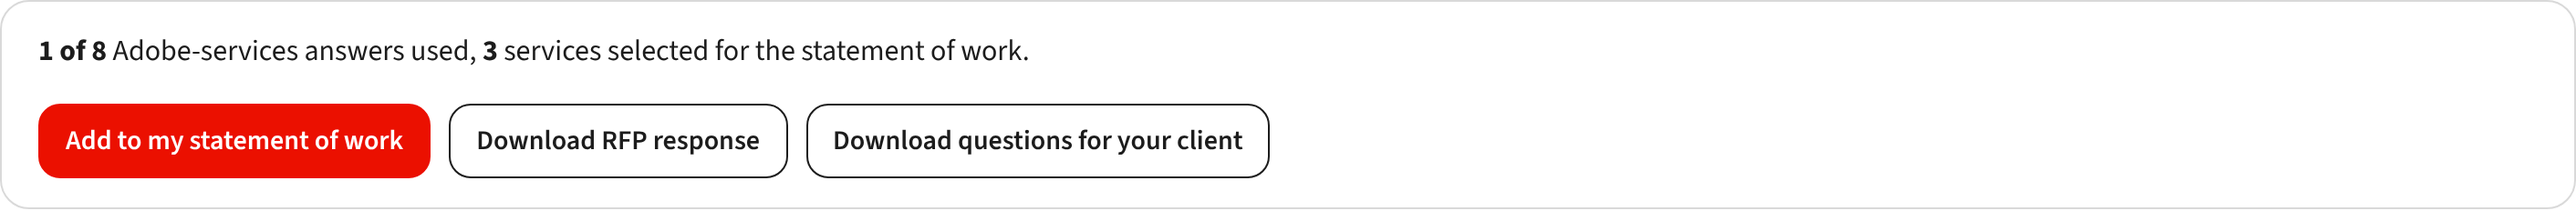
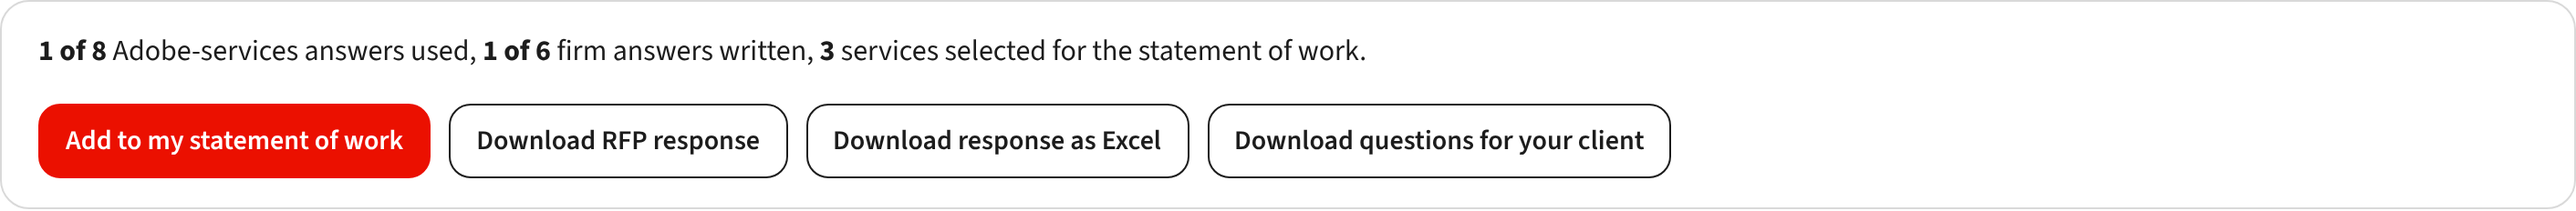
RFP Builder prototype: See answer on every row and the first answer open on load; a field under each client ask that joins the response as What you have in place; a text box for firm questions; Download response as Excel [skip netlify]
Claude-Session: https://claude.ai/code/session_01XdtaJbBr4NnCHXCCGFuhey

diff --git a/rfp_answers.js b/rfp_answers.js
@@ -121,14 +121,19 @@ function ownedProducts(){   // the products the RFP says the client already has 
     for(const [pid,names] of Object.entries(ALIASES)){if(!P[pid]||P[pid].outside)continue;
       for(const a of names){if(a.length<=4)continue;const i=t.indexOf(a);if(i>0&&OWNS.test(t.slice(Math.max(0,i-24),i)))s.add(pid);}}}
   rfpState.owned=s;return s;}
-function noteHTML(d){
+function noteHTML(d,q){
   if(!d||(!d.sells.length&&!d.asks.length))return '';
+  const f=(q&&q.facts)||{};
   return '<div class="rfp-partner-note"><h4>Notes for you, not for the client</h4>'+
     (d.sells.length?'<p>Part of this proposal:</p><ul class="rfp-sells">'+d.sells.map(x=>'<li>'+esc(x)+'</li>').join('')+'</ul>':'')+
-    (d.asks.length?'<p>Ask your client for these before you send this answer. The tool cannot answer them for your client:</p><ul class="rfp-asks">'+d.asks.map(x=>'<li>'+esc(x)+'</li>').join('')+'</ul>':'')+'</div>';
+    (d.asks.length?'<p>Ask your client for these. Type what they tell you and it goes into the response under "What you have in place"; anything left blank stays out of the response and on your checklist.</p><ul class="rfp-asks">'+
+      d.asks.map((x,i)=>'<li>'+esc(x)+'<textarea class="rfp-fact" data-i="'+i+'" rows="2" placeholder="Will confirm with the client" aria-label="What the client says about: '+esc(x)+'">'+esc(f[i]||'')+'</textarea></li>').join('')+'</ul>':'')+'</div>';
 }
-function plain(d){return d.sections.map(([h,items])=>h+'\n'+items.map(x=>'- '+x).join('\n')).join('\n\n')+(d.sources.length?'\n\nSources\n'+d.sources.map(s=>'- '+s.title+': '+s.url).join('\n'):'');}
-function answerHTML(d){return d.sections.map(([h,items])=>'<h4>'+esc(h)+'</h4>'+(items.length===1&&h==='Our approach'?'<p>'+esc(items[0])+'</p>':'<ul>'+items.map(x=>'<li>'+esc(x)+'</li>').join('')+'</ul>')).join('')+(d.sources.length?'<h4>Sources</h4><ul class="rfp-sources">'+d.sources.map(s=>'<li><a href="'+esc(s.url)+'" target="_blank" rel="noopener">'+esc(s.title)+'</a></li>').join('')+'</ul>':'');}
+// Nov 9 (Adam): what the partner typed under an ask ("the client says ...") joins the response as "What you have in place"
+const facts=q=>q&&q.facts?Object.keys(q.facts).sort((a,b)=>a-b).map(i=>String(q.facts[i]||'').trim()).filter(Boolean):[];
+const sectionsOf=(d,q)=>{const f=facts(q);return f.length?[...d.sections,['What you have in place',f]]:d.sections;};
+function plain(d,q){return sectionsOf(d,q).map(([h,items])=>h+'\n'+items.map(x=>'- '+x).join('\n')).join('\n\n')+(d.sources.length?'\n\nSources\n'+d.sources.map(s=>'- '+s.title+': '+s.url).join('\n'):'');}
+function answerHTML(d,q){return sectionsOf(d,q).map(([h,items])=>'<h4>'+esc(h)+'</h4>'+(items.length===1&&h==='Our approach'?'<p>'+esc(items[0])+'</p>':'<ul>'+items.map(x=>'<li>'+esc(x)+'</li>').join('')+'</ul>')).join('')+(d.sources.length?'<h4>Sources</h4><ul class="rfp-sources">'+d.sources.map(s=>'<li><a href="'+esc(s.url)+'" target="_blank" rel="noopener">'+esc(s.title)+'</a></li>').join('')+'</ul>':'');}
 
 /* ---------- the answer panel */
 const rfpState=R.state;let editing=false;
@@ -138,14 +143,15 @@ function renderAnswer(){
   const box=$r('rfp-answer');if(!box)return;const q=current();
   if(!q){box.innerHTML='<p class="hint">Pick a question on the left to see its drafted answer.</p>';return;}
   const head='<h3>'+(q.label?'<b>'+esc(q.label)+'</b> ':'')+esc(q.text)+'</h3>';
-  if(q.kind==='firm'){box.innerHTML=head+'<p class="rfp-note">This one is about your firm, so the tool leaves it to you. It stays in the downloaded response with a blank space for your answer.</p>'+nav();return;}
+  if(q.kind==='firm'){box.innerHTML=head+(q.status==='used'?'<span class="rfp-state ok">Used</span>':'')+'<p class="rfp-note">This one is about your firm, so it is yours to write. Type it here and it goes into the downloaded response in place of the blank.</p>'+
+    '<textarea id="rfp-firm" rows="7" placeholder="Your answer" aria-label="Your answer">'+esc(q.answer||'')+'</textarea><div class="rfp-actions"><button type="button" class="primary" id="rfp-firm-use">Use this answer</button>'+nav()+'</div>';return;}
   if(!q.draft)q.draft=compose(q);
   if(!q.draft){box.innerHTML=head+'<p class="rfp-note">No match in the catalog for this question. Answer it yourself, or move it to Your firm. The questions this tool answers are about Adobe products, their connections and the services around them.</p>'+nav();return;}
   const state=q.status==='used'?'<span class="rfp-state ok">Used</span>':q.status==='skipped'?'<span class="rfp-state">Skipped</span>':'';
-  if(editing){box.innerHTML=head+state+'<textarea id="rfp-edit" rows="16" aria-label="Edit the answer">'+esc(q.answer||plain(q.draft))+'</textarea><div class="rfp-actions"><button type="button" class="primary" id="rfp-save-edit">Save and use</button><button type="button" id="rfp-cancel-edit">Cancel</button></div>';return;}
-  const body=q.answer&&q.answer!==plain(q.draft)?'<pre class="rfp-plain">'+esc(q.answer)+'</pre>':answerHTML(q.draft);
+  if(editing){box.innerHTML=head+state+'<textarea id="rfp-edit" rows="16" aria-label="Edit the answer">'+esc(q.answer||plain(q.draft,q))+'</textarea><div class="rfp-actions"><button type="button" class="primary" id="rfp-save-edit">Save and use</button><button type="button" id="rfp-cancel-edit">Cancel</button></div>';return;}
+  const body='<div id="rfp-body">'+(q.answer?'<pre class="rfp-plain">'+esc(q.answer)+'</pre>':answerHTML(q.draft,q))+'</div>';
   const products=q.draft.m.products.map(id=>'<span class="rfp-chip">'+esc(P[id].name)+'</span>').join('');
-  box.innerHTML=head+state+'<p class="rfp-drawn">Drawn from: '+products+(q.draft.m.conn?'<span class="rfp-chip conn">'+esc(P[q.draft.m.conn.a].name+' + '+P[q.draft.m.conn.b].name)+'</span>':'')+'</p><p class="rfp-voice">Your response to the client</p>'+body+noteHTML(q.draft)+
+  box.innerHTML=head+state+'<p class="rfp-drawn">Drawn from: '+products+(q.draft.m.conn?'<span class="rfp-chip conn">'+esc(P[q.draft.m.conn.a].name+' + '+P[q.draft.m.conn.b].name)+'</span>':'')+'</p><p class="rfp-voice">Your response to the client</p>'+body+noteHTML(q.draft,q)+
     '<div class="rfp-actions"><button type="button" class="primary" id="rfp-use">'+(q.status==='used'?'Used, keep it':'Use this answer')+'</button><button type="button" id="rfp-edit-btn">Edit</button><button type="button" id="rfp-skip">Skip</button>'+nav()+'</div>';
 }
 function nav(){return '<button type="button" id="rfp-next">Next question</button>';}
@@ -157,8 +163,9 @@ function summary(){
   const el=$r('rfp-summary');if(!el)return;const qs=rfpState.questions;if(!qs.length){el.hidden=true;return;}
   const adobe=qs.filter(q=>q.kind!=='firm'),used=adobe.filter(q=>q.status==='used'),lines=selectedLineIds();
   el.hidden=false;
-  el.innerHTML='<p><b>'+used.length+' of '+adobe.length+'</b> Adobe-services answer'+(adobe.length===1?'':'s')+' used, <b>'+lines.size+'</b> service'+(lines.size===1?'':'s')+' selected for the statement of work.</p>'+
-    '<div class="rfp-actions"><button type="button" class="primary" id="rfp-to-sow"'+(lines.size?'':' disabled')+'>Add to my statement of work</button><button type="button" id="rfp-download">Download RFP response</button><button type="button" id="rfp-download-asks">Download questions for your client</button></div>';
+  const firm=qs.filter(q=>q.kind==='firm'),written=firm.filter(q=>q.status==='used');
+  el.innerHTML='<p><b>'+used.length+' of '+adobe.length+'</b> Adobe-services answer'+(adobe.length===1?'':'s')+' used, <b>'+written.length+' of '+firm.length+'</b> firm answer'+(firm.length===1?'':'s')+' written, <b>'+lines.size+'</b> service'+(lines.size===1?'':'s')+' selected for the statement of work.</p>'+
+    '<div class="rfp-actions"><button type="button" class="primary" id="rfp-to-sow"'+(lines.size?'':' disabled')+'>Add to my statement of work</button><button type="button" id="rfp-download">Download RFP response</button><button type="button" id="rfp-download-xlsx">Download response as Excel</button><button type="button" id="rfp-download-asks">Download questions for your client</button></div>';
 }
 function selectedLineIds(){const s=new Set();for(const q of rfpState.questions)if(q.status==='used'&&q.draft)for(const id of q.draft.m.lines)s.add(id);return s;}
 function selectedProducts(){const s=new Set();for(const q of rfpState.questions)if(q.status==='used'&&q.draft){for(const id of q.draft.m.products)s.add(id);if(q.draft.m.conn){s.add(q.draft.m.conn.a);s.add(q.draft.m.conn.b);}}return s;}
@@ -184,11 +191,11 @@ function toSow(){
 function responseDoc(){
   const qs=rfpState.questions,name=rfpState.name||'RFP';
   const body=qs.map(q=>{const label=(q.label?q.label+' ':'')+q.text;
-    if(q.kind==='firm')return '<section><h3>'+esc(label)+'</h3><p class="tag">About your firm</p><p class="blank">Your answer:</p><div class="space"></div></section>';
+    if(q.kind==='firm')return '<section><h3>'+esc(label)+'</h3><p class="tag">About your firm</p>'+(q.answer?'<pre>'+esc(q.answer)+'</pre>':'<p class="blank">Your answer:</p><div class="space"></div>')+'</section>';
     const d=q.draft||compose(q);
     if(!d)return '<section><h3>'+esc(label)+'</h3><p class="tag">No catalog match</p><p class="blank">Your answer:</p><div class="space"></div></section>';
     const status=q.status==='used'?'Reviewed':q.status==='skipped'?'Skipped by the partner':'Draft, not yet reviewed';
-    const text=q.answer&&q.answer!==plain(d)?'<pre>'+esc(q.answer)+'</pre>':answerHTML(d);
+    const text=q.answer?'<pre>'+esc(q.answer)+'</pre>':answerHTML(d,q);
     return '<section><h3>'+esc(label)+'</h3><p class="tag">'+status+'</p>'+text+'</section>';}).join('');
   return '<!doctype html><html><head><meta charset="utf-8"><title>'+esc(name)+': response draft</title><style>body{font-family:"Source Sans 3",Arial,sans-serif;color:#1c1c1c;max-width:860px;margin:40px auto;padding:0 20px;line-height:1.5}h1{font-size:26px}h3{font-size:17px;margin:28px 0 4px}h4{font-size:13px;letter-spacing:1.2px;text-transform:uppercase;margin:14px 0 4px}p,li{font-size:15px}.tag{font-size:12px;font-weight:700;letter-spacing:1px;text-transform:uppercase;margin:0 0 6px}.blank{font-weight:600}.space{height:90px;border:1px dashed #999;border-radius:8px}pre{white-space:pre-wrap;font:inherit}section{page-break-inside:avoid}.intro{border:1.5px solid #1c1c1c;border-radius:10px;padding:12px 16px}</style></head><body>'+
     '<h1>'+esc(name)+': response draft</h1><p class="intro">Drafted by the partner from Adobe\'s documentation, question by question. Answers marked Reviewed were checked by the partner; drafts not yet reviewed and questions about the partner\'s firm still need the partner\'s words. Sources are Adobe Experience League and adobe.com pages.</p>'+body+'</body></html>';
@@ -199,9 +206,31 @@ function asksDoc(){
   const qs=rfpState.questions,name=rfpState.name||'RFP';
   const body=qs.map(q=>{if(q.kind==='firm')return '';const d=q.draft||compose(q);if(!d||(!d.sells.length&&!d.asks.length))return '';
     return '<section><h3>'+esc((q.label?q.label+' ':'')+q.text)+'</h3>'+(d.sells.length?'<h4>Part of this proposal</h4><ul>'+d.sells.map(x=>'<li>'+esc(x)+'</li>').join('')+'</ul>':'')+
-      (d.asks.length?'<h4>Ask your client for</h4><ul>'+d.asks.map(x=>'<li>'+esc(x)+'</li>').join('')+'</ul>':'')+'</section>';}).join('');
+      (d.asks.length?'<h4>Ask your client for</h4><ul>'+d.asks.map((x,i)=>'<li>'+esc(x)+'<br><b>'+(q.facts&&String(q.facts[i]||'').trim()?'Client says: </b>'+esc(q.facts[i].trim()):'Will confirm with the client</b>')+'</li>').join('')+'</ul>':'')+'</section>';}).join('');
   return '<!doctype html><html><head><meta charset="utf-8"><title>'+esc(name)+': questions for your client</title><style>body{font-family:"Source Sans 3",Arial,sans-serif;color:#1c1c1c;max-width:860px;margin:40px auto;padding:0 20px;line-height:1.5}h1{font-size:26px}h3{font-size:17px;margin:28px 0 4px}h4{font-size:13px;letter-spacing:1.2px;text-transform:uppercase;margin:14px 0 4px}p,li{font-size:15px}section{page-break-inside:avoid}.intro{border:1.5px solid #1c1c1c;border-radius:10px;padding:12px 16px}</style></head><body>'+
     '<h1>'+esc(name)+': questions for your client</h1><p class="intro">For your firm, not for the client. For each question the tool drafted an answer to, this lists what the proposal itself supplies and what to confirm with your client before you send the response. Nothing here is in the downloaded response.</p>'+(body||'<p>No drafted answer needs anything from your client.</p>')+'</body></html>';
+}
+
+/* ---------- the response as a workbook (RFPs arrive as spreadsheets, so the answer can go back as one) */
+function loadXLSX(){return new Promise((ok,fail)=>{if(window.XLSX)return ok(window.XLSX);const sc=document.createElement('script');sc.src='lib/xlsx.mini.min.js';sc.onload=()=>ok(window.XLSX);sc.onerror=()=>fail(Error('The spreadsheet library did not load.'));document.head.appendChild(sc);});}
+function responseRows(){
+  const rows=[['Number','Question','Response','Status']],srcs=[['Number','Source','Link']];
+  for(const q of rfpState.questions){const d=q.kind==='firm'?null:(q.draft||compose(q));
+    let text='',status='';
+    if(q.kind==='firm'){text=q.answer||'';status=q.answer?'Written by the partner':'About your firm: still to write';}
+    else if(!d){text=q.answer||'';status=q.answer?'Written by the partner':'No catalog match: still to write';}
+    else{text=q.answer||plain(d,q).replace(/\n\nSources\n[\s\S]*$/,'');status=q.status==='used'?'Reviewed':q.status==='skipped'?'Skipped by the partner':'Draft, not yet reviewed';
+      for(const s of d.sources)srcs.push([q.label||'',s.title,s.url]);}
+    rows.push([q.label||'',q.text,text,status]);}
+  return {rows,srcs};
+}
+async function responseXlsx(){
+  let X;try{X=await loadXLSX();}catch(e){toast(e.message);return;}
+  const {rows,srcs}=responseRows(),wb=X.utils.book_new();
+  const ws=X.utils.aoa_to_sheet(rows);ws['!cols']=[{wch:8},{wch:60},{wch:100},{wch:28}];X.utils.book_append_sheet(wb,ws,'Response');
+  const ws2=X.utils.aoa_to_sheet(srcs);ws2['!cols']=[{wch:8},{wch:60},{wch:90}];X.utils.book_append_sheet(wb,ws2,'Sources');
+  const out=X.write(wb,{bookType:'xlsx',type:'array'});
+  download((rfpState.name||'RFP').replace(/\.[a-z0-9]+$/i,'').replace(/[^a-zA-Z0-9-]/g,'-').slice(0,80)+'-response.xlsx',out,'application/vnd.openxmlformats-officedocument.spreadsheetml.sheet');
 }
 
 /* ---------- wiring */
@@ -209,7 +238,9 @@ document.addEventListener('click',e=>{
   const li=e.target.closest('#rfp-questions li');
   if(li&&!e.target.closest('select')){select(Number(li.dataset.i));return;}
   const id=e.target.id,q=current();
-  if(id==='rfp-use'&&q&&q.draft){q.status='used';if(!q.answer)q.answer=plain(q.draft);R.renderList();renderAnswer();summary();return;}
+  if(id==='rfp-use'&&q&&q.draft){q.status='used';R.renderList();renderAnswer();summary();return;}
+  if(id==='rfp-firm-use'&&q){const t=$r('rfp-firm').value.trim();q.answer=t;q.status=t?'used':undefined;R.renderList();renderAnswer();summary();return;}
+  if(id==='rfp-download-xlsx'){responseXlsx();return;}
   if(id==='rfp-skip'&&q){q.status='skipped';R.renderList();renderAnswer();summary();return;}
   if(id==='rfp-edit-btn'&&q){editing=true;renderAnswer();return;}
   if(id==='rfp-cancel-edit'){editing=false;renderAnswer();return;}
@@ -219,7 +250,9 @@ document.addEventListener('click',e=>{
   if(id==='rfp-download-asks'){download(((rfpState.name||'RFP').replace(/\.[a-z0-9]+$/i,'').replace(/[^a-zA-Z0-9-]/g,'-').slice(0,80)+'-questions-for-your-client.html'),asksDoc(),'text/html');return;}
   if(id==='rfp-download'){download(((rfpState.name||'RFP').replace(/\.[a-z0-9]+$/i,'').replace(/[^a-zA-Z0-9-]/g,'-').slice(0,80)+'-response.html'),responseDoc(),'text/html');return;}
 });
+document.addEventListener('input',e=>{const t=e.target.closest('.rfp-fact');if(!t)return;const q=current();if(!q||!q.draft)return;
+  (q.facts=q.facts||{})[t.dataset.i]=t.value;const b=$r('rfp-body');if(b&&!q.answer)b.innerHTML=answerHTML(q.draft,q);});
 R.onRender=()=>{summary();if(current()&&current().kind!=='firm'&&!current().draft)current().draft=compose(current());};
-R.onLoad=()=>{rfpState.selected=null;rfpState.owned=null;editing=false;renderAnswer();summary();};
-window.RFPAnswers={match,compose,rfp,plain,toSow,responseDoc,asksDoc,ownedProducts,context,detect};
+R.onLoad=()=>{rfpState.selected=null;rfpState.owned=null;editing=false;if(rfpState.questions.some(q=>q.kind!=='firm'))next();else{renderAnswer();summary();}};
+window.RFPAnswers={match,compose,rfp,plain,toSow,responseDoc,asksDoc,responseRows,ownedProducts,context,detect};
 })();

diff --git a/test_rfp.js b/test_rfp.js
@@ -73,6 +73,10 @@ const server = http.createServer((req, res) => {
   await p.setInputFiles('#rfp-file', path.join(FIX, 'bank_rfp.xlsx'));
   await p.waitForFunction(() => /found/.test(document.getElementById('rfp-status').textContent), null, {timeout: 30000});
   const rowFor = async label => p.$$eval('#rfp-questions li', (e, l) => e.findIndex(x => (x.querySelector('.rfp-q b') || {}).textContent === l), label);
+  // Nov 9 (Adam: not obvious to click a row): every row says See answer, the open row says Open, and the first Adobe-services answer opens by itself
+  const opens = await p.$$eval('#rfp-questions li', e => e.map(x => (x.querySelector('.rfp-open') || {}).textContent || ''));
+  ok(opens.length === 14 && opens.filter(t => /See answer/.test(t)).length === 7 && opens.filter(t => /Write answer/.test(t)).length === 6 && opens.filter(t => t === 'Open').length === 1, 'every Adobe row says See answer, every firm row Write answer, and the open row says Open', JSON.stringify(opens));
+  ok((await p.$eval('#rfp-questions li.sel .rfp-q b', e => e.textContent)) === '2.1' && /Your response to the client/.test(await p.textContent('#rfp-answer')), 'the first Adobe-services question (2.1) opens by itself when the RFP loads, so the panel is never empty');
   await p.click(`#rfp-questions li:nth-child(${await rowFor('2.2') + 1})`); await p.waitForTimeout(200);
   const ans = await p.textContent('#rfp-answer');
   ok(/Your response to the client/.test(ans) && /Our approach/.test(ans) && /What we would do/.test(ans) && /Sources/.test(ans) && !/need from you/.test(ans), '2.2: the response has approach, work and sources, labelled as the response to the client, with no asks in it', ans.slice(0, 200));
@@ -82,6 +86,12 @@ const server = http.createServer((req, res) => {
   ok(note && note.sells.length === 1 && /paid Brand Visibility offering, not the free trial/.test(note.sells[0]), '2.2: the paid Brand Visibility license is Part of this proposal (the bank owns CJA, not Brand Visibility)', note && JSON.stringify(note.sells));
   ok(note && note.asks.length >= 4 && note.asks.some(a => /CDN access logs/.test(a)) && note.asks.some(a => /CJA administrator/.test(a)) && !note.asks.some(a => /paid Brand Visibility/i.test(a)), '2.2: the access, people and fields are what to ask the client for', note && JSON.stringify(note.asks).slice(0, 300));
   ok(await p.evaluate(() => [...RFPAnswers.ownedProducts()].join(',')) === 'cja', 'the RFP says "our Customer Journey Analytics", so CJA is the product the bank owns', await p.evaluate(() => [...RFPAnswers.ownedProducts()].join(',')));
+  // Nov 9 (Adam: let them type the information right there): a field under each ask; what is typed joins the response
+  ok((await p.$$eval('#rfp-answer .rfp-asks .rfp-fact', e => e.length)) === note.asks.length && (await p.$eval('#rfp-answer .rfp-fact', e => e.placeholder)) === 'Will confirm with the client', 'each ask has its own field, pre-filled with Will confirm with the client');
+  await p.fill('#rfp-answer .rfp-fact[data-i="0"]', 'Akamai serves both sites; your IT team confirmed log forwarding can be enabled.'); await p.waitForTimeout(100);
+  const withFact = await p.textContent('#rfp-body');
+  ok(/What you have in place/.test(withFact) && /Akamai serves both sites/.test(withFact) && (await p.$$eval('#rfp-answer .rfp-fact', e => e.length)) === note.asks.length && (await p.$eval('#rfp-answer .rfp-fact[data-i="0"]', e => e.value)).startsWith('Akamai'), 'the typed fact appears in the response under What you have in place while the field keeps focus and its text', withFact.slice(-200));
+  ok(!/Will confirm with the client/.test(withFact), 'the asks left blank stay out of the response');
   const resp = await p.$eval('#rfp-answer', e => { const c = e.cloneNode(true); const n = c.querySelector('.rfp-partner-note'); if (n) n.remove(); return c.textContent; });
   ok(/Brand Visibility/.test(resp) && /Customer Journey Analytics|CJA/.test(resp) && !/your client|the Client/.test(resp), '2.2: the response names both products and speaks to the client as you (the partner note may say your client)', resp.slice(0, 300));
   ok(await p.$$eval('#rfp-answer .rfp-sources a', e => e.length > 0 && e.every(a => /^https:\/\/(experienceleague|helpx|business|www)\.adobe\.com|aem\.live/.test(a.href))), '2.2: every source is an Adobe page');
@@ -92,19 +102,31 @@ const server = http.createServer((req, res) => {
   const ongoing = await p.textContent('#rfp-answer');
   ok(/Each month we will/.test(ongoing), '2.5 (ongoing services, no product named) draws the monthly lines from the products the RFP is about', ongoing.slice(0, 300));
   await p.click(`#rfp-questions li:nth-child(${await rowFor('1.2') + 1})`); await p.waitForTimeout(150);
-  ok(/about your firm/.test(await p.textContent('#rfp-answer')), 'a Your firm question is left to the partner');
+  ok(/about your firm/.test(await p.textContent('#rfp-answer')) && await p.isVisible('#rfp-firm'), 'a Your firm question shows its own text box');
+  await p.fill('#rfp-firm', 'Harbor & Pine Credit Union (2024), Meridian Trust (2025), Lakeshore Mutual (2025). Contacts on request.'); await p.click('#rfp-firm-use'); await p.waitForTimeout(150);
+  ok((await p.$eval(`#rfp-questions li:nth-child(${await rowFor('1.2') + 1})`, e => /Used/.test(e.textContent))) && /1 of 6/.test(await p.textContent('#rfp-summary')), 'a firm answer typed and used marks the row Used and counts 1 of 6 firm answers written', await p.textContent('#rfp-summary'));
   await p.click(`#rfp-questions li:nth-child(${await rowFor('2.3') + 1})`); await p.waitForTimeout(150);
   await p.click('#rfp-edit-btn'); await p.fill('#rfp-edit', 'Our own words for 2.3.'); await p.click('#rfp-save-edit'); await p.waitForTimeout(150);
   ok(/Our own words for 2.3/.test(await p.textContent('#rfp-answer')) && /2 of 8/.test(await p.textContent('#rfp-summary')), 'an edited answer is kept and counted');
   const [dl] = await Promise.all([p.waitForEvent('download'), p.click('#rfp-download')]);
   const doc = fs.readFileSync(await dl.path(), 'utf8');
-  ok(/response draft/.test(doc) && /2\.2 How would you connect/.test(doc) && /What we would do/.test(doc) && /Our own words for 2\.3/.test(doc) && /Provide three references/.test(doc) && /Your answer:/.test(doc), 'the downloaded response holds every question in order, the used answers and blanks for the firm', doc.length + ' bytes');
+  ok(/response draft/.test(doc) && /2\.2 How would you connect/.test(doc) && /What we would do/.test(doc) && /Our own words for 2\.3/.test(doc) && /Provide three references/.test(doc) && /Your answer:/.test(doc), 'the downloaded response holds every question in order, the used answers and blanks for the firm questions not yet written', doc.length + ' bytes');
+  ok(/What you have in place/.test(doc) && /Akamai serves both sites/.test(doc) && /Harbor &amp; Pine Credit Union \(2024\)/.test(doc), 'the downloaded response carries the typed fact under 2.2 and the typed firm answer under 1.2');
   ok(!/your client|the Client\b/.test(doc.replace(/Client ID|Client Secret/g, '')), 'the response speaks to the client as you, never as the Client');
   ok(!/need from you|Notes for you|Ask your client|Part of this proposal/.test(doc), 'the downloaded response carries none of the partner notes');
   const [dl2] = await Promise.all([p.waitForEvent('download'), p.click('#rfp-download-asks')]);
   const asks = fs.readFileSync(await dl2.path(), 'utf8');
   ok(/questions for your client/.test(asks) && /2\.2 How would you connect/.test(asks) && /Part of this proposal/.test(asks) && /paid Brand Visibility offering, not the free trial/.test(asks) && /Ask your client for/.test(asks) && /CDN access logs/.test(asks) && !/Provide three references/.test(asks), 'the questions-for-your-client download lists, per drafted question, what the proposal supplies and what to ask for, and skips the firm questions', asks.length + ' bytes');
   ok(/questions-for-your-client\.html$/.test(dl2.suggestedFilename()), 'the checklist file is named after the RFP', dl2.suggestedFilename());
+  ok(/Client says: <\/b>Akamai serves both sites/.test(asks) && /Will confirm with the client/.test(asks), 'the checklist shows what the client said and what is still to confirm');
+  // Nov 9 (Adam: can we get a new Excel?): the response as a workbook, read back with the same library
+  const [dl3] = await Promise.all([p.waitForEvent('download'), p.click('#rfp-download-xlsx')]);
+  const xbytes = [...fs.readFileSync(await dl3.path())];
+  const sheets = await p.evaluate(async bytes => { const X = window.XLSX; const wb = X.read(new Uint8Array(bytes), {type: 'array'}); return {names: wb.SheetNames, rows: X.utils.sheet_to_json(wb.Sheets.Response, {header: 1}), srcs: X.utils.sheet_to_json(wb.Sheets.Sources, {header: 1})}; }, xbytes);
+  const r22 = sheets.rows.find(r => r[0] === '2.2'), r12 = sheets.rows.find(r => r[0] === '1.2'), r23 = sheets.rows.find(r => r[0] === '2.3');
+  ok(/response\.xlsx$/.test(dl3.suggestedFilename()) && sheets.names.join(',') === 'Response,Sources' && sheets.rows.length === 15 && sheets.rows[0].join('|') === 'Number|Question|Response|Status', 'the Excel response has a Response sheet with one row per question and a Sources sheet', JSON.stringify(sheets.names) + ' ' + sheets.rows.length);
+  ok(r22 && /Our approach/.test(r22[2]) && /What you have in place/.test(r22[2]) && !/Sources/.test(r22[2]) && r22[3] === 'Reviewed' && r12 && /Harbor & Pine/.test(r12[2]) && r23 && r23[2] === 'Our own words for 2.3.', 'the rows carry the used answer with the typed fact, the typed firm answer and the edited answer, with sources on their own sheet', JSON.stringify([r22 && r22[3], r12 && r12[2], r23 && r23[2]]));
+  ok(sheets.srcs.length > 5 && sheets.srcs.slice(1).every(r => /^https:\/\//.test(r[2])) && sheets.srcs.some(r => r[0] === '2.2'), 'the Sources sheet lists each answer\'s Adobe pages by question number', sheets.srcs.length + ' rows');
   await p.click('#rfp-to-sow'); await p.waitForTimeout(600);
   ok(await p.isVisible('#services-panel') && (await p.textContent('#play-title')) === 'Your own play', 'Add to my statement of work opens the Services step on Your own play', await p.textContent('#play-title'));
   const cards = await p.$$eval('.service-card', e => e.length);

diff --git a/patch_step49.py b/patch_step49.py
@@ -60,7 +60,7 @@ CSS = '''
 .rfp-filters button[aria-pressed=true]{background:var(--red);color:#fff;border-color:var(--red)}
 .rfp-filters #rfp-clear{margin-left:auto}
 .rfp-list{list-style:none;margin:0;padding:0}
-.rfp-list li{display:grid;grid-template-columns:auto 1fr auto;gap:12px;align-items:start;border:1px solid var(--line);border-radius:12px;padding:12px 14px;margin:0 0 8px;font-size:15px;line-height:1.45;background:#fff}
+.rfp-list li{display:grid;grid-template-columns:auto 1fr auto auto;gap:12px;align-items:start;border:1px solid var(--line);border-radius:12px;padding:12px 14px;margin:0 0 8px;font-size:15px;line-height:1.45;background:#fff}
 .rfp-list li[hidden]{display:none}
 .rfp-tag{font-size:11px;font-weight:700;letter-spacing:1px;text-transform:uppercase;border:1.5px solid var(--red);color:var(--red);border-radius:999px;padding:2px 8px;white-space:nowrap;margin-top:2px}
 .rfp-list li[data-kind=firm] .rfp-tag{border-color:var(--ink);color:var(--ink)}
@@ -83,6 +83,10 @@ CSS = '''
 .rfp-note{font-size:15px;line-height:1.5}
 .rfp-voice{font-size:12.5px;font-weight:700;letter-spacing:1.4px;text-transform:uppercase;color:var(--red);margin:12px 0 2px}
 .rfp-partner-note{border:1.5px solid var(--ink);border-radius:14px;padding:14px 18px;margin-top:18px}.rfp-partner-note h4{margin-top:0}.rfp-partner-note p{margin:0 0 4px}.rfp-partner-note ul{margin-bottom:8px}
+.rfp-open{color:var(--red);font-weight:600;font-size:13.5px;white-space:nowrap;align-self:center}
+.rfp-fact,#rfp-firm{display:block;width:100%;box-sizing:border-box;font:inherit;font-size:14.5px;line-height:1.4;color:var(--ink);border:1.5px solid var(--ink);border-radius:10px;padding:7px 10px;margin:6px 0 10px;background:#fff;resize:vertical}
+#rfp-firm{font-size:15px;border-radius:12px;padding:10px 12px;margin:10px 0 0}
+.rfp-fact::placeholder,#rfp-firm::placeholder{color:#444;opacity:1}
 .rfp-actions{display:flex;gap:10px;flex-wrap:wrap;margin-top:16px}
 .rfp-plain,#rfp-edit{white-space:pre-wrap;font:inherit;font-size:15px;line-height:1.5;width:100%;box-sizing:border-box;border:1.5px solid var(--line);border-radius:12px;padding:12px;margin:0}
 .rfp-summary{border:1.5px solid var(--line);border-radius:16px;padding:16px 20px;margin-top:18px}.rfp-summary p{margin:0 0 6px;font-size:16px}
@@ -208,7 +212,7 @@ function renderList(){
   for(const [i,q] of rfp.questions.entries()){
     const li=document.createElement('li');li.dataset.kind=q.kind;li.dataset.i=i;li.hidden=rfp.filter!=='all'&&q.kind!==rfp.filter;
     if(rfp.selected===i)li.classList.add('sel');
-    li.innerHTML='<span class="rfp-tag">'+KIND[q.kind]+'</span><span class="rfp-q">'+(q.label?'<b>'+esc(q.label)+'</b>':'')+esc(q.text)+(q.status?'<br><span class="rfp-state'+(q.status==='used'?' ok':'')+'">'+(q.status==='used'?'Used':'Skipped')+'</span>':'')+'</span><select class="rfp-kind" aria-label="Which pile this question belongs to">'+Object.entries(KIND).map(([k,v])=>'<option value="'+k+'"'+(k===q.kind?' selected':'')+'>'+v+'</option>').join('')+'</select>';
+    li.innerHTML='<span class="rfp-tag">'+KIND[q.kind]+'</span><span class="rfp-q">'+(q.label?'<b>'+esc(q.label)+'</b>':'')+esc(q.text)+(q.status?'<br><span class="rfp-state'+(q.status==='used'?' ok':'')+'">'+(q.status==='used'?'Used':'Skipped')+'</span>':'')+'</span><select class="rfp-kind" aria-label="Which pile this question belongs to">'+Object.entries(KIND).map(([k,v])=>'<option value="'+k+'"'+(k===q.kind?' selected':'')+'>'+v+'</option>').join('')+'</select><span class="rfp-open">'+(rfp.selected===i?'Open':(q.kind==='firm'?'Write answer':'See answer')+' &rsaquo;')+'</span>';
     list.appendChild(li);
   }
   const n=rfp.questions.length,a=rfp.questions.filter(q=>q.kind==='adobe').length,f=rfp.questions.filter(q=>q.kind==='firm').length,u=n-a-f;

diff --git a/README.md b/README.md
@@ -71,7 +71,7 @@ Nov 8 2026 (Adam: finish the scrub ChatGPT started): twelve more rules for the f
 | `patch_step45.py`, `canvas/patch_step45.py`, `test_step45.js` | Step 45 (Nov 4, Adam: "go" on `mockups/nov4_outside_v2/` and `mockups/nov4_cdn_recommended/`): the CDN starts on the canvas in every Brand Visibility play with CDN log forwarding (OX1) on, here too (a new engagement starts those plays with the CDN; a saved one keeps its own), so each Brand Visibility play starts $2,400 higher at $150, Typical. These steps keep the new outside systems and AEM Assets on the AEM play through the hand-over (`OUTSIDE_MORE`); their services are research lines, so they arrive as service concepts and the catalog is unchanged. On Create your own play an outside system's catalog service counts only with the Adobe product it connects to (`OUT_WITH`: CJA for OX3 to OX5, Brand Visibility for OX1 and OX2), as the canvas counts it. `node sow/test_step45.js` (32 checks) drives both pages: the totals agree on every Brand Visibility play and on Create your own play with a warehouse or CRM beside Real-Time CDP, Journey Optimizer, Marketo or Target. Run on the step 44 file: `python3 patch_step45.py index.html`, then `canvas/build.py` and `build_site.py`. The test updates are `tests_step45.py` and `tests_step45_review.py` (and `check.py`: each Brand Visibility play starts 16 hours higher, with OX1). |
 | `sweep46_extract.py`, `sweep46_decisions.json`, `sweep46_apply.py`, `patch_step46.py`, `canvas/patch_step46.py`, `test_step46.js` | Step 46 (Nov 4, Adam: "always say your client", then "yes"): the client sweep. The statement of work calls the party the Client, the tool says "your client" to the partner, a client's own customers and Adobe's product names stay; every wording, its decision and why is in `review_step46_2026-11-04/CHANGES.md`. Saved engagements in the earlier wording take the new wording (PRIOR46, plus the FSI objective and the default responsibilities); edited text stays the partner's. A canvas research service reads "the Client" once it reaches these steps (`docVoice`), and the package it needs arrives as "Assumes the Client has ..." (no upsell note in the SOW). Code names (`state.customer`, `approvalCustomer`, `data-meta="customer"`) don't change, so saved work and drafts open as before. Run on the step 45 files: `python3 sweep46_apply.py`, `python3 patch_step46.py index.html`, `python3 canvas/patch_step46.py canvas/template.html`, then `canvas/build.py` and `build_site.py`; `node sow/test_step46.js` (17 checks). |
 | `patch_step47_sow.py`, `patch_step47_content.py`, `patch_step47_look.py`, `canvas/patch_step47*.py`, `canvas/data_step47*.py`, `test_step47.js` | Step 47 (Nov 5, Adam: "find everything that needs to be fixed and fix it all at once", then "yes, fix all 45"): the full audit's 45 findings (`audit_2026-11-05/FINDINGS.md`), fixed in three passes (these steps, the canvas, the wording and facts) and checked one by one by independent checkers. Among them: a saved engagement with a step 45 system on the canvas was wiped on the next load (it now loads after the values it needs, and a save that can't be opened is backed up, never overwritten); removing a system in focus view crashed the canvas; the canvas is usable on phones and tablets; licensing text says customers, the partner's work says your client or the Client; partner-internal notes no longer print in the SOW; cards never run off the screen or cover their own box or bolt. Changed service wording keeps its earlier text in PRIOR47. And the look Adam approved (`mockups/nov5_look/`): rounder corners on both pages. `node sow/test_step47.js` (100 checks). |
-| `rfp_prototype/`, `patch_step49.py`, `lib/`, `test_rfp.js`, `qa/rfp_fixtures/` | Step 49, part one (Nov 8, Adam: "a fifth tab called RFP Builder", "ok 3"; then: a half-built feature does not go in the product, it gets its own link): the RFP Builder prototype, built by `python3 sow/rfp_prototype/build.py` into `rfp_prototype/site/` as a copy of the SOW tool with the tab added by `patch_step49.py`, a "prototype, not the live tool" badge in the masthead and the readers in `lib/`. Nothing in the product (`index.html`, the canvas, `site/`) refers to it. The partner drops a client's RFP or RFI (PDF, Word, Excel, CSV or text; Nov 9, Adam: RFPs often arrive as spreadsheets, so SheetJS reads every sheet, a numbering cell joined to the question cell beside it); the page reads it in the browser with pdf.js, mammoth and SheetJS (loaded only when the tab opens, served from the same folder, so Proto needs no CDN), finds the questions (numbered items, question marks, request verbs such as describe, provide, explain; instructions like "respond to each item" and section headings are skipped) and sorts them into Adobe services, Your firm (references, team, pricing, legal) and Not sure, each movable from its row. Nothing about the RFP is sent anywhere or saved to browser storage. `node sow/test_rfp.js` (25 checks) uploads three made-up RFPs (`qa/rfp_fixtures/`, test data only, rebuilt by `make_fixtures.py`) and checks the piles, that no request leaves the page and that storage stays clean. Part two (Nov 9, Adam: "ok, lets go"): drafted answers, in `rfp_answers.js` (inlined by the patch, with a slim copy of the canvas catalog as `RFP_CAT`). A question's products are found from an alias list ("Experience Manager", "ChatGPT", "storefront", "leads"...); a connection answers only when the question names both of its products; the answer stitches the connection's how and gain, the matched services' scopes as "We will ...", the prerequisites as "What we would need from you", monthly lines as "After launch", and the Adobe sources, all converted to the partner's voice to the client ("your client" and "the Client" become "you", "the partner" becomes "we"). A question that names no product gets an answer only if it asks about ongoing work, drawn from the monthly lines of the products the rest of the RFP is about; hosting, security and licensing questions wait for the knowledge base. Use, Edit, Skip and Next on each answer; "Add to my statement of work" writes the same hand-off the canvas writes (Your own play, the products on the Build canvas, the used answers' services on) and opens Services; "Download RFP response" gives every question in the RFP's order with the used answers, drafts marked as not yet reviewed, and a blank space under the questions about the firm. Part three, the knowledge base, is next. All of it stays in the prototype until Adam says it is ready for the tool. To try it: upload `rfp_prototype/site/` to Proto as its own prototype (for example "sow-rfp-builder"); `rfp_prototype/try/` holds a made-up bank RFP as a spreadsheet to drop in. Nov 9, later (Adam: the response, then notes on what to ask the client for): the prerequisites leave the answer and become a boxed note for the partner, split into Part of this proposal (a license line about a product the RFP does not say the client owns, found by `LICENSE` and `ownedProducts()`) and Ask your client for; the response is labelled as the partner's words to the client, and Download questions for your client gives the partner that checklist on its own. |
+| `rfp_prototype/`, `patch_step49.py`, `lib/`, `test_rfp.js`, `qa/rfp_fixtures/` | Step 49, part one (Nov 8, Adam: "a fifth tab called RFP Builder", "ok 3"; then: a half-built feature does not go in the product, it gets its own link): the RFP Builder prototype, built by `python3 sow/rfp_prototype/build.py` into `rfp_prototype/site/` as a copy of the SOW tool with the tab added by `patch_step49.py`, a "prototype, not the live tool" badge in the masthead and the readers in `lib/`. Nothing in the product (`index.html`, the canvas, `site/`) refers to it. The partner drops a client's RFP or RFI (PDF, Word, Excel, CSV or text; Nov 9, Adam: RFPs often arrive as spreadsheets, so SheetJS reads every sheet, a numbering cell joined to the question cell beside it); the page reads it in the browser with pdf.js, mammoth and SheetJS (loaded only when the tab opens, served from the same folder, so Proto needs no CDN), finds the questions (numbered items, question marks, request verbs such as describe, provide, explain; instructions like "respond to each item" and section headings are skipped) and sorts them into Adobe services, Your firm (references, team, pricing, legal) and Not sure, each movable from its row. Nothing about the RFP is sent anywhere or saved to browser storage. `node sow/test_rfp.js` (25 checks) uploads three made-up RFPs (`qa/rfp_fixtures/`, test data only, rebuilt by `make_fixtures.py`) and checks the piles, that no request leaves the page and that storage stays clean. Part two (Nov 9, Adam: "ok, lets go"): drafted answers, in `rfp_answers.js` (inlined by the patch, with a slim copy of the canvas catalog as `RFP_CAT`). A question's products are found from an alias list ("Experience Manager", "ChatGPT", "storefront", "leads"...); a connection answers only when the question names both of its products; the answer stitches the connection's how and gain, the matched services' scopes as "We will ...", the prerequisites as "What we would need from you", monthly lines as "After launch", and the Adobe sources, all converted to the partner's voice to the client ("your client" and "the Client" become "you", "the partner" becomes "we"). A question that names no product gets an answer only if it asks about ongoing work, drawn from the monthly lines of the products the rest of the RFP is about; hosting, security and licensing questions wait for the knowledge base. Use, Edit, Skip and Next on each answer; "Add to my statement of work" writes the same hand-off the canvas writes (Your own play, the products on the Build canvas, the used answers' services on) and opens Services; "Download RFP response" gives every question in the RFP's order with the used answers, drafts marked as not yet reviewed, and a blank space under the questions about the firm. Part three, the knowledge base, is next. All of it stays in the prototype until Adam says it is ready for the tool. To try it: upload `rfp_prototype/site/` to Proto as its own prototype (for example "sow-rfp-builder"); `rfp_prototype/try/` holds a made-up bank RFP as a spreadsheet to drop in. Nov 9, later (Adam: the response, then notes on what to ask the client for): the prerequisites leave the answer and become a boxed note for the partner, split into Part of this proposal (a license line about a product the RFP does not say the client owns, found by `LICENSE` and `ownedProducts()`) and Ask your client for; the response is labelled as the partner's words to the client, and Download questions for your client gives the partner that checklist on its own. Nov 9, night (Adam: "build"): See answer or Write answer on every row and the first Adobe answer open on load; a field under each ask whose text joins the response as "What you have in place"; a text box for firm questions; Download response as Excel (a Response sheet and a Sources sheet, written in the browser with SheetJS). 64 checks. |
 | `build_site.py` | Assembles `site/`: the canvas (`canvas/index.html`) as `site/index.html`, this tool as `site/sow/index.html`. `node test_site.js` click-tests the joined site over a local web server (ALL SITE CHECKS PASSED). Deploy `site/`. |
 | `canvas/` | Prototype of the proposed Build tab (architecture canvas), a separate page; see `canvas/README.md` and `CANVAS_CONCEPT.md`. Not deployed. |
 | `check.py` | Checks: `python3 check.py index.html [screenshot folder]` prints ✅/❌ lines and must end with ALL CHECKS PASSED. Needs Playwright. |
